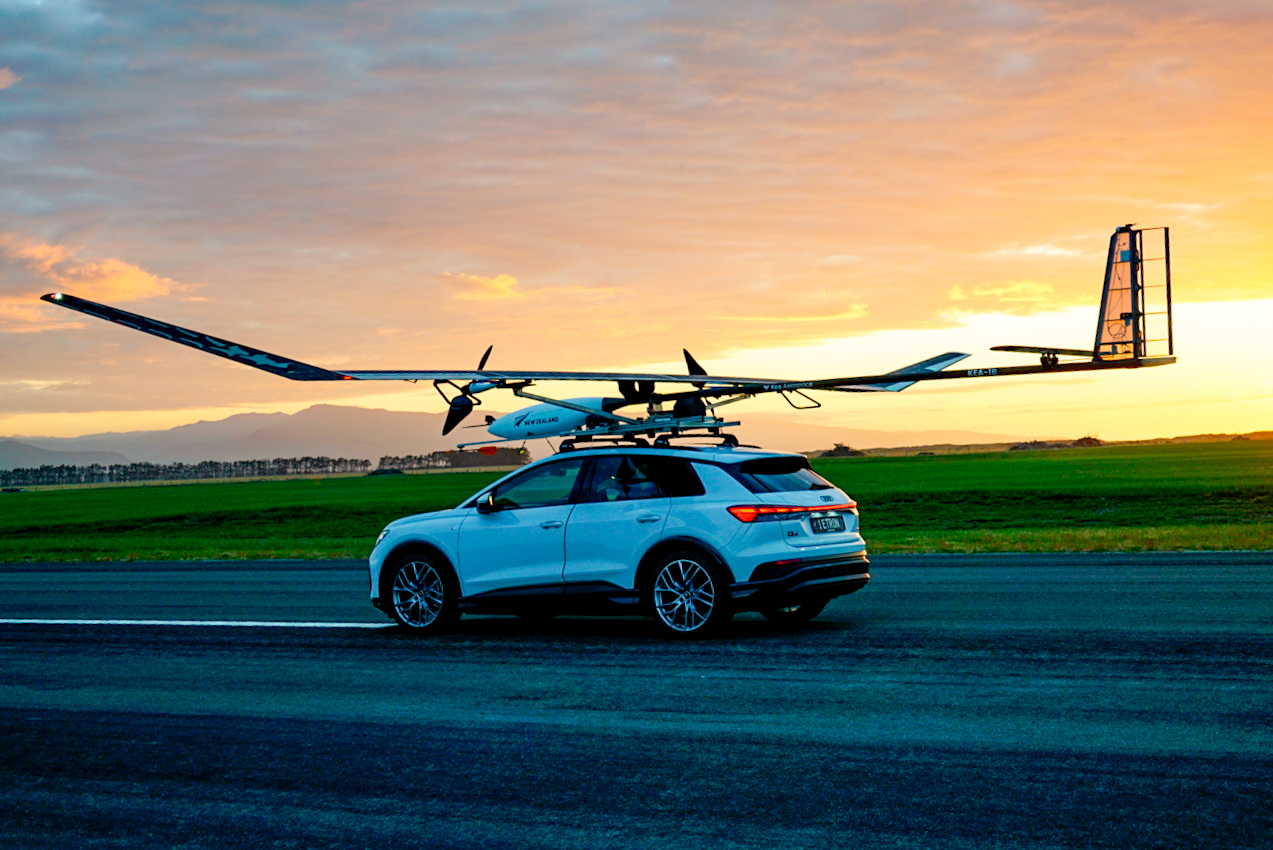
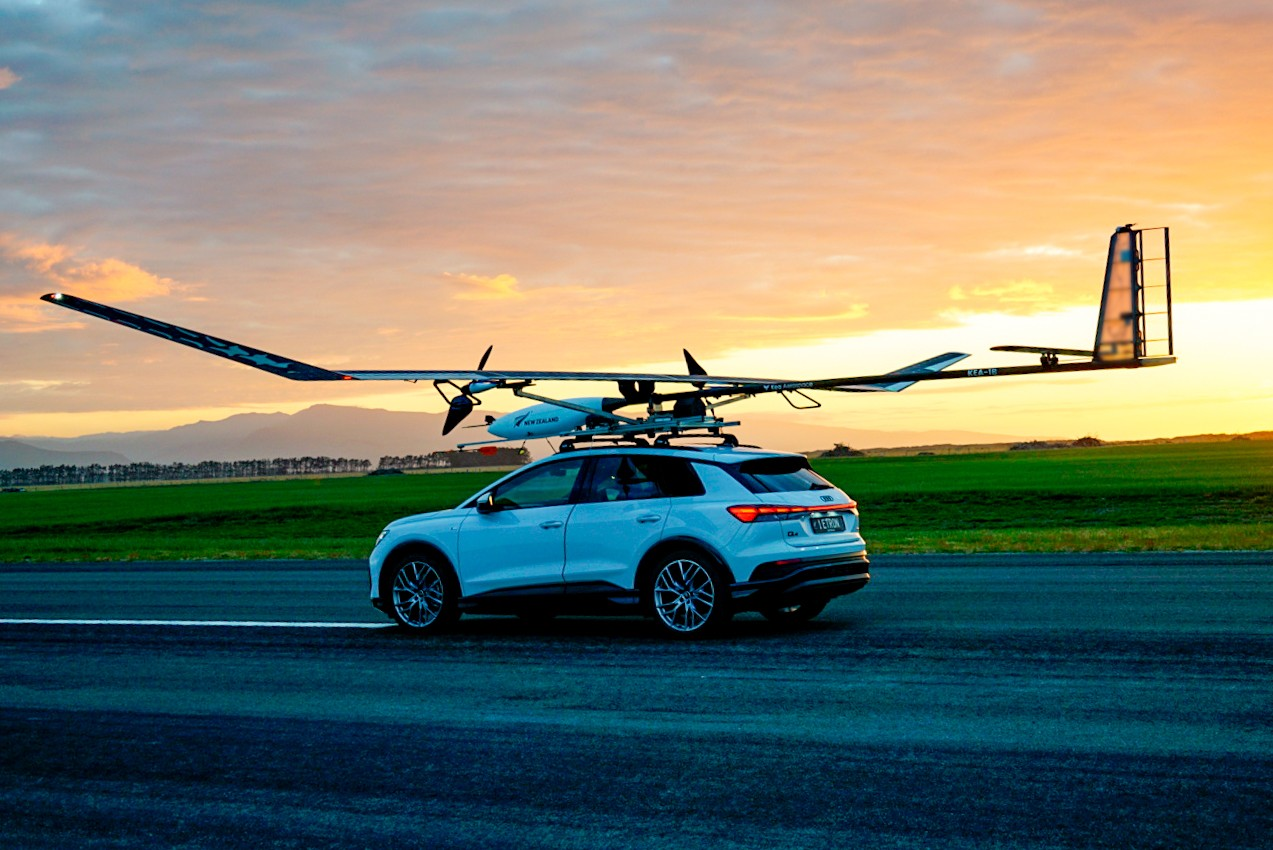
Updated kea images and removed abbreviation style on mobile (feature doesnt work well)

diff --git a/static/css/single.css b/static/css/single.css
@@ -457,6 +457,14 @@
   font-weight: 500;
 }
 
+/* Disable abbreviation underline on mobile */
+@media (max-width: 576px) {
+  .company-page .page-content abbr[title] {
+    text-decoration: none;
+    -webkit-text-decoration: none;
+  }
+}
+
 /* -------------------------- */
 /* Portfolio                  */
 /* -------------------------- */